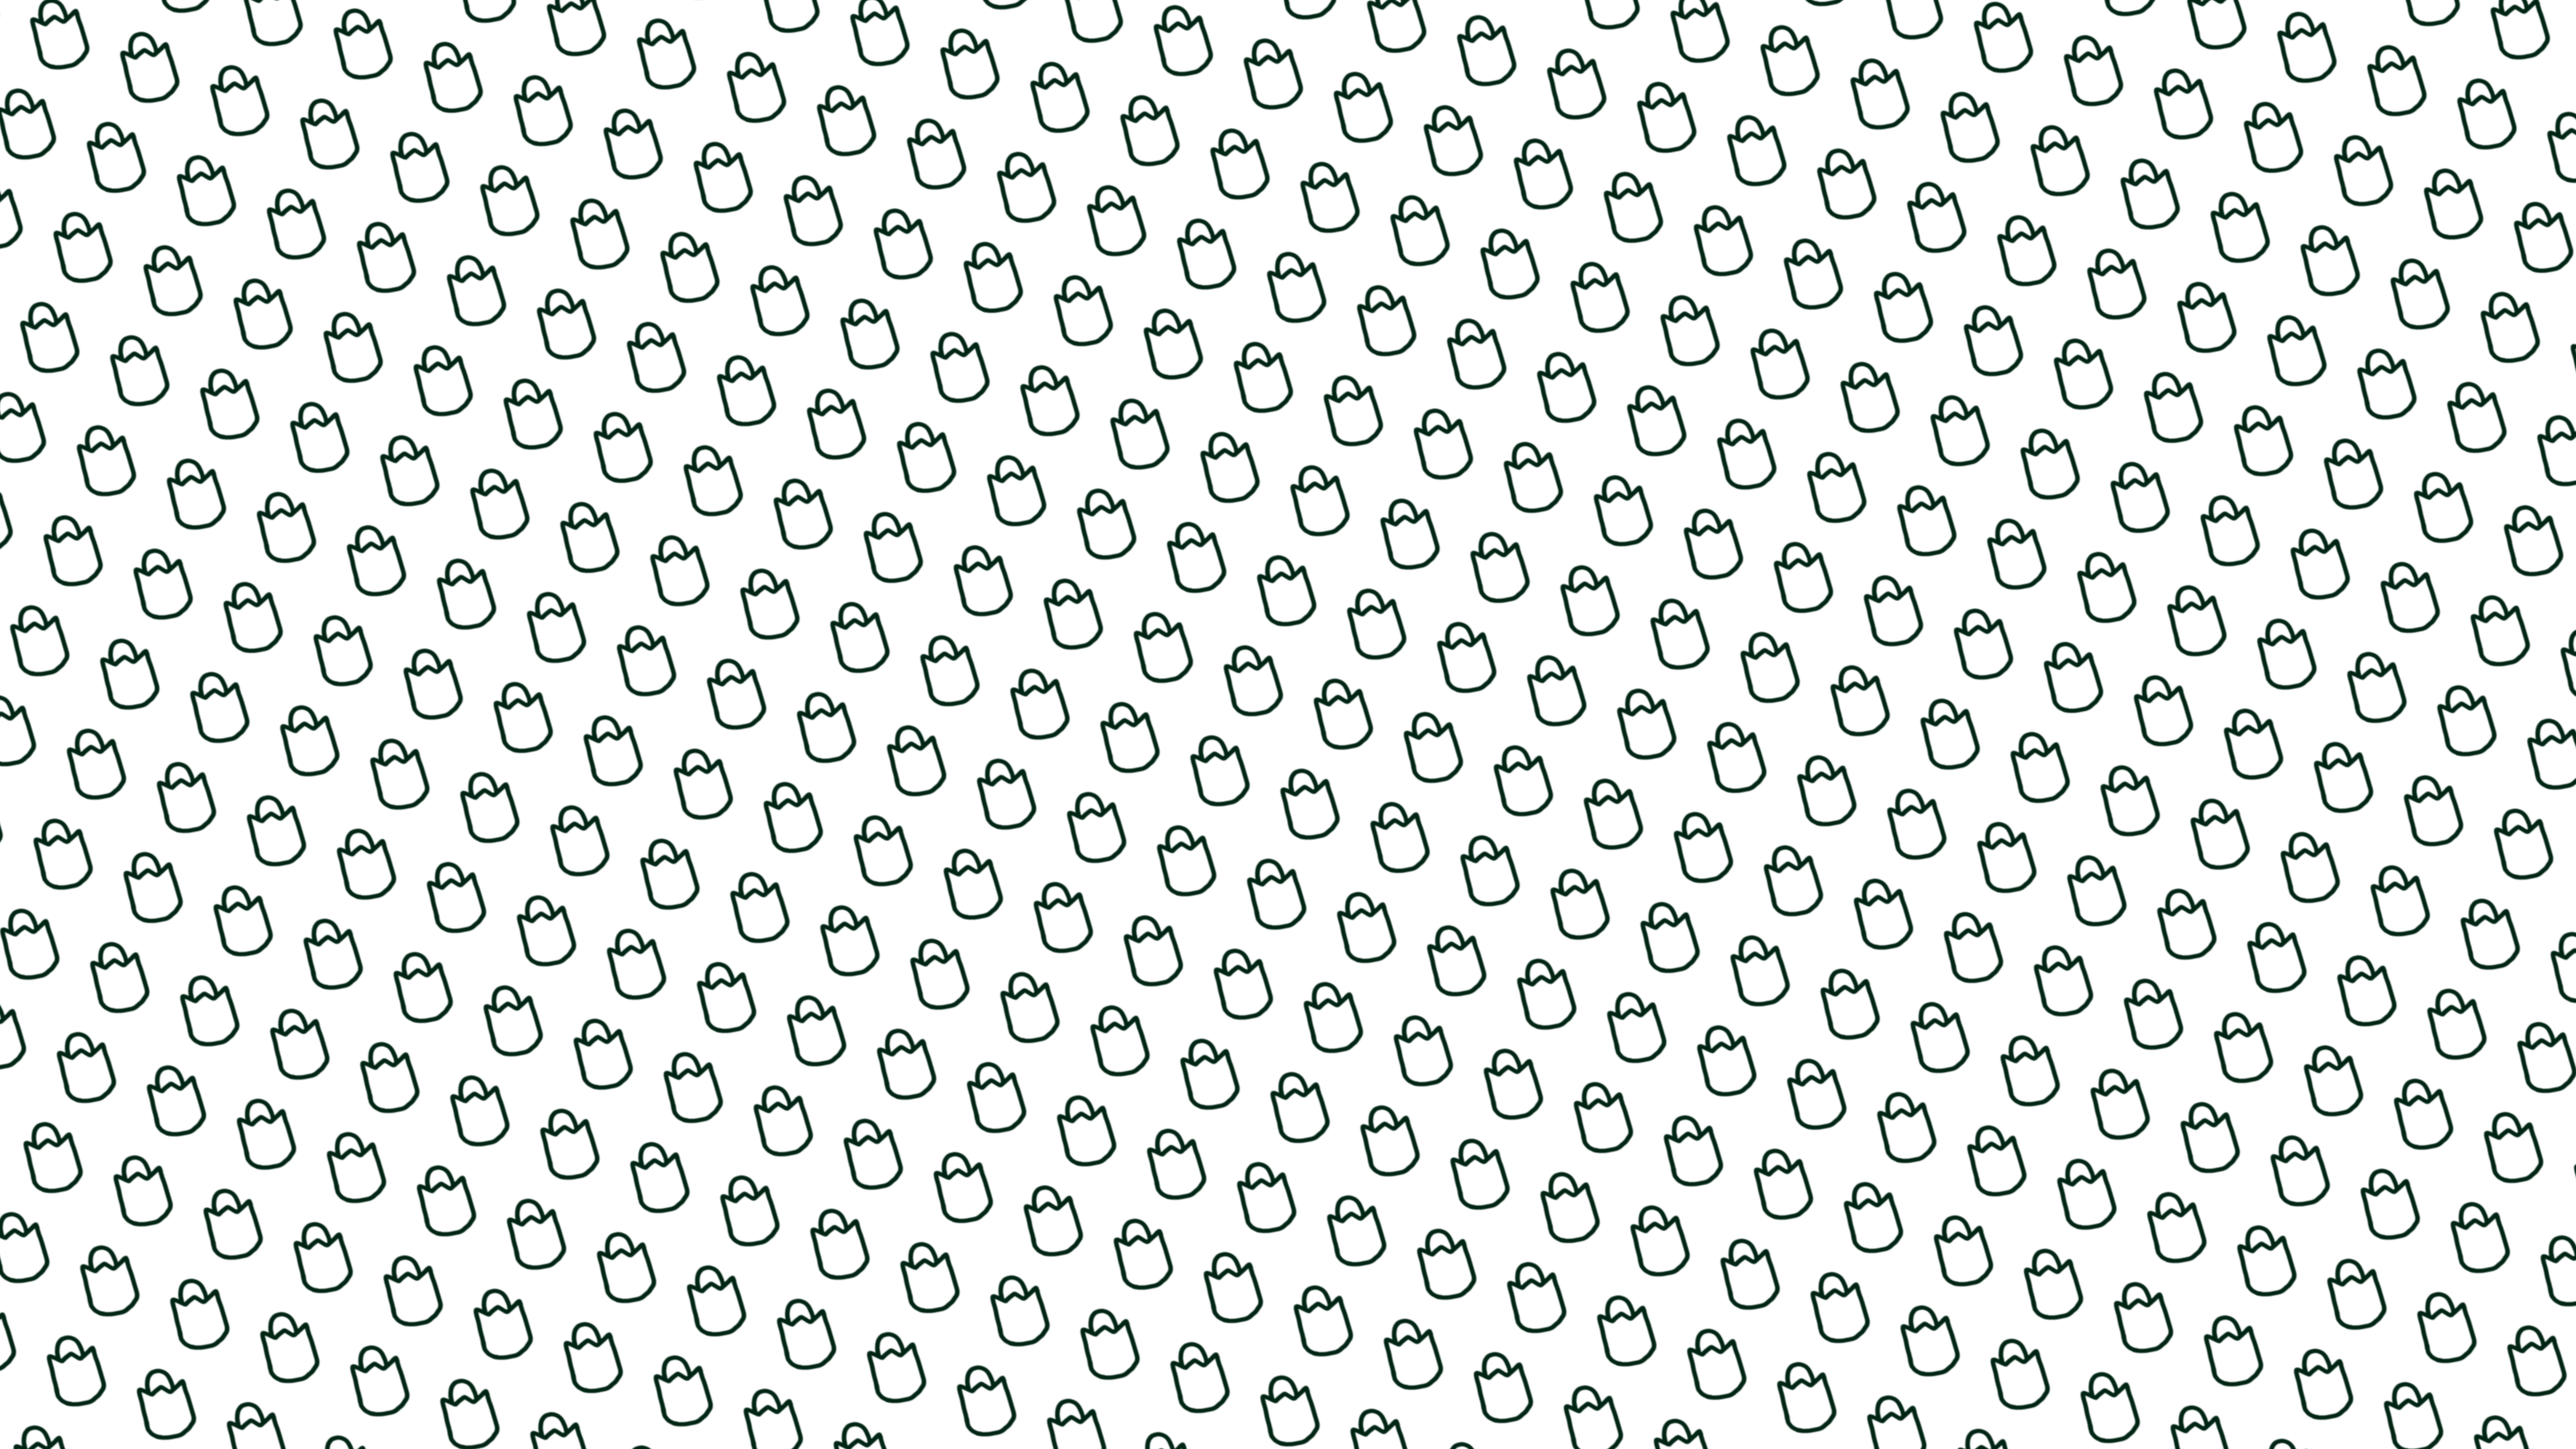
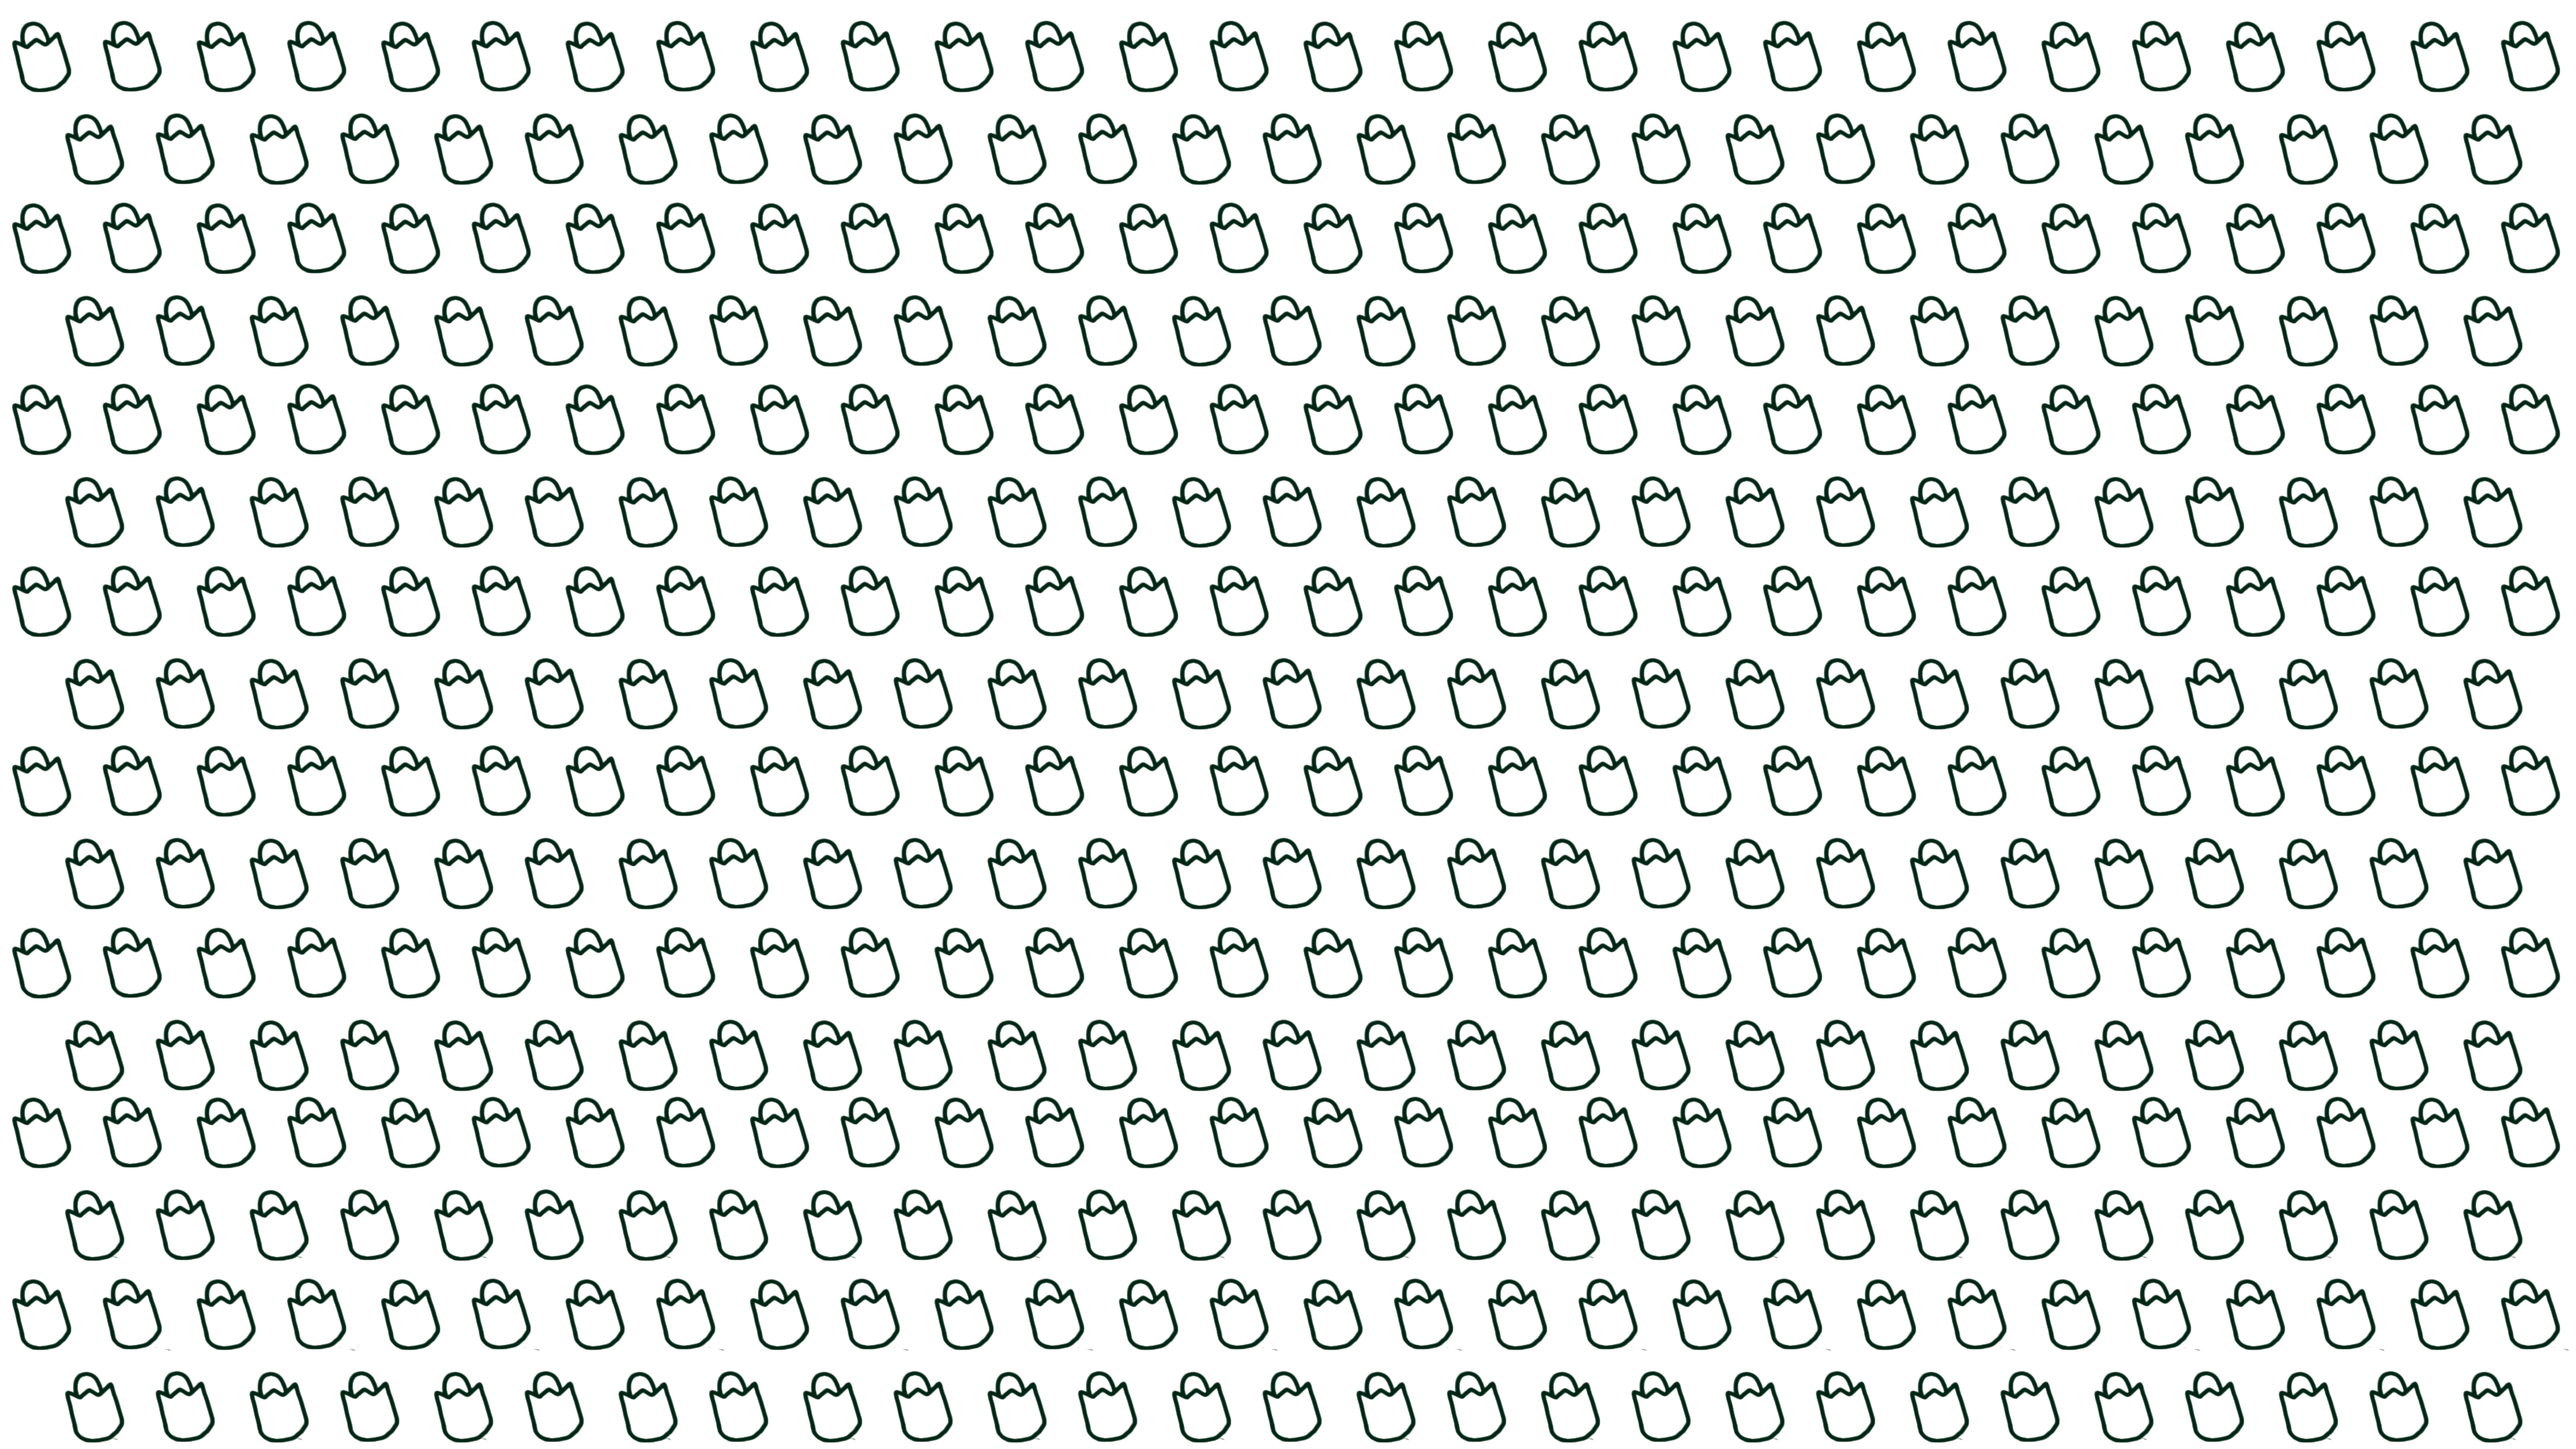
bg img fix

Changed region(s): [[0.0, 0.0, 1.0, 1.0]]

diff --git a/style.css b/style.css
@@ -10,7 +10,7 @@ body {
   background-color: #00C46B;
   background-image: url("https://grocerystorerblx.github.io/img/bg.png");
   background-repeat: repeat;
-  background-size: 1929px 1080px;
+  background-size: 1920px 1080px;
   text-align: center;
   color: white;
 }
